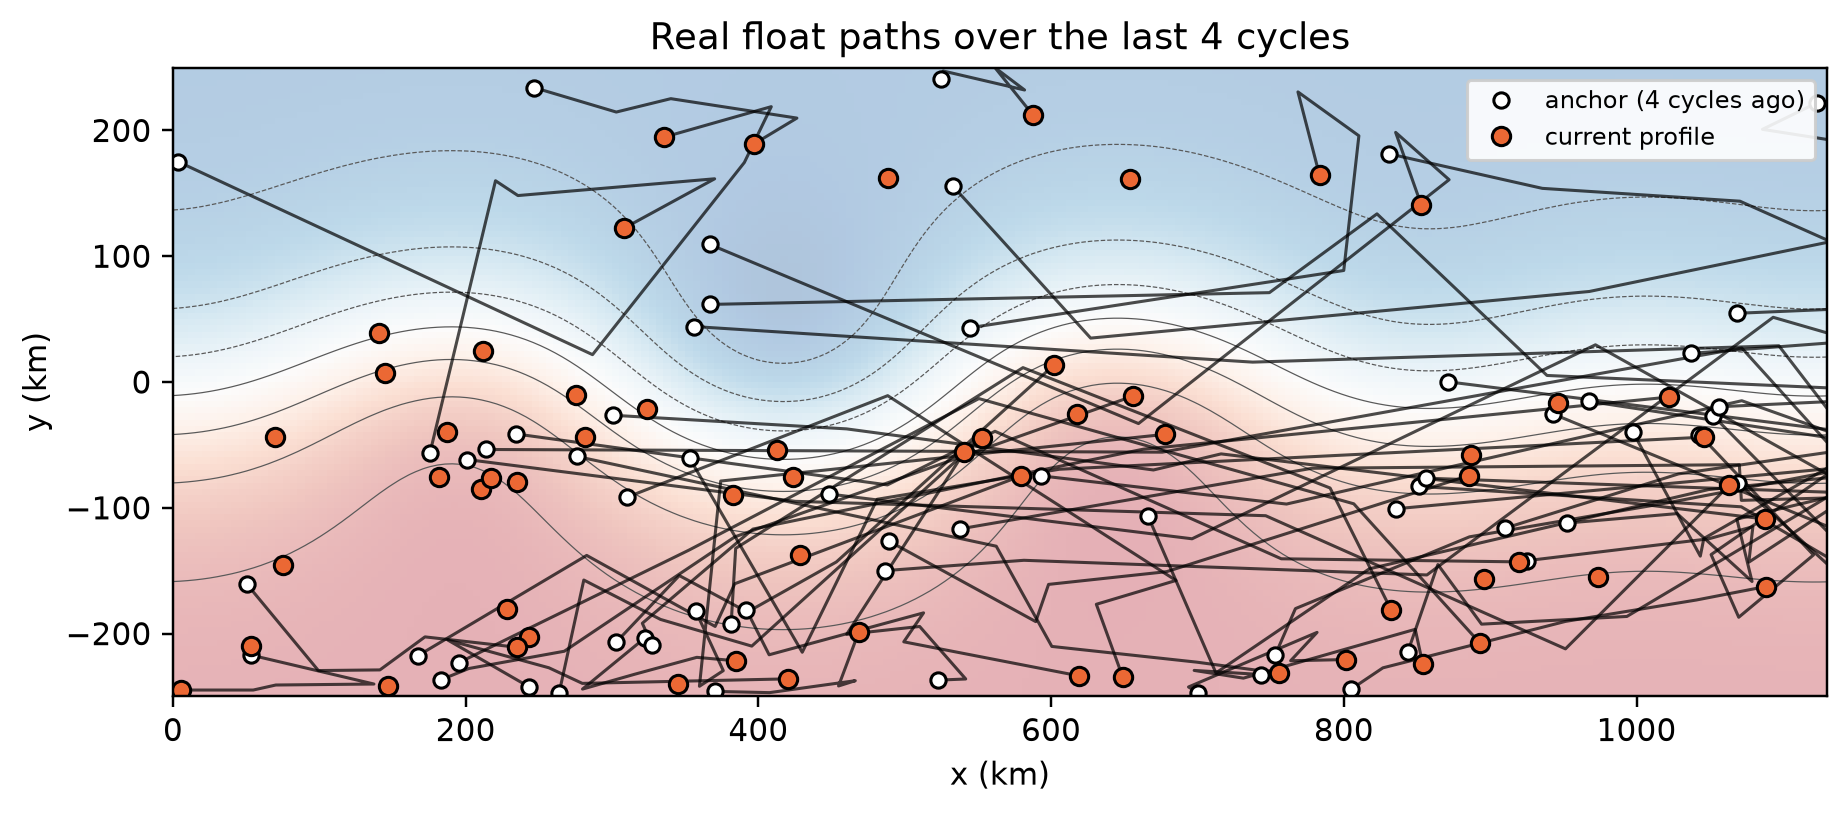
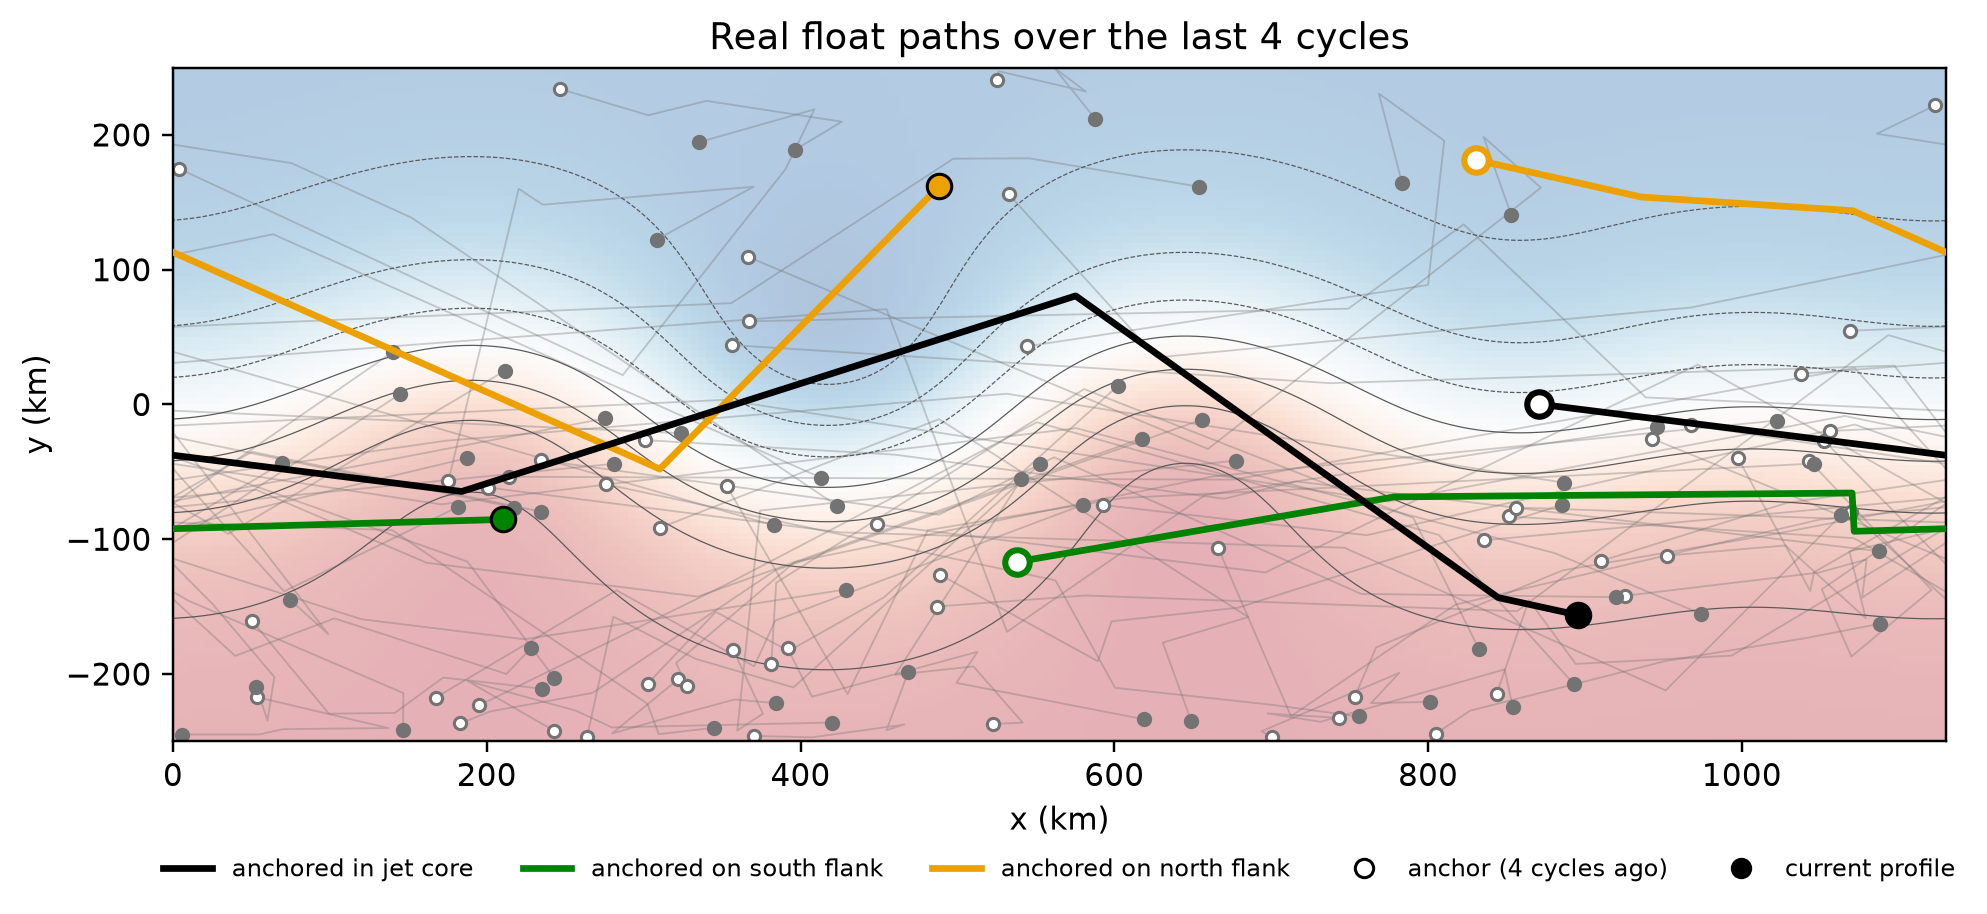
simex: fix wrapped float paths; faint paths with three highlighted floats
Jet floats lap the periodic channel within 4 cycles, so unwrapped paths ran
off the frame and left current profiles without a visible anchor. Paths are
now drawn with every channel-length shift; all paths are faint, with one
float each anchored in the jet core, south flank and north flank highlighted.

Claude-Session: https://claude.ai/code/session_01JX5XCkefp2nRPRboPsFMkC

diff --git a/code/simex.py b/code/simex.py
@@ -586,18 +586,31 @@ def plot_velocity(t=3600.0, figsize=(12, 3.8)):
     return fig
 
 
-def plot_paths(sn, figsize=(8.5, 3.8)):
-    """The real floats' paths over the h cycles from their anchors to the current profiles."""
+def plot_paths(sn, highlight=((0.0, "anchored in jet core"), (-120.0, "anchored on south flank"),
+                                (200.0, "anchored on north flank")), figsize=(9.5, 4.3)):
+    """All real floats' paths over the last h cycles (faint), with a few highlighted by anchor latitude."""
     path = sn["path"]
     px = path[..., 0].copy()
     px[:, 1:] -= LX * np.cumsum(np.round(np.diff(px, axis=1) / LX), axis=1)  # unwrap periodic x
     fig, ax = plt.subplots(figsize=figsize)
     _field(ax, sn["t"], alpha=0.35)
-    ax.plot(px.T, path[..., 1].T, "-", color="k", lw=1, alpha=0.7)
-    ax.plot(px[:, 0], path[:, 0, 1], "o", mfc="w", mec="k", ms=5, label=f"anchor ({sn['h']} cycles ago)")
-    ax.plot(*path[:, -1].T, "o", color=COL["dr"], mec="k", ms=6, label="current profile")
+    pick = [np.argmin(np.abs(path[:, 0, 1] - y)) for y, _ in highlight]
+    for j in range(len(path)):
+        hi = j in pick
+        col = ANCHOR_COL[pick.index(j)] if hi else "0.45"
+        for k in range(-3, 4):  # jet floats can lap the periodic channel, so draw every shifted copy
+            ax.plot(px[j] + k * LX, path[j, :, 1], "-", color=col, lw=2.2 if hi else 0.6,
+                    alpha=1.0 if hi else 0.35, zorder=3 if hi else 1)
+    ax.plot(path[:, 0, 0], path[:, 0, 1], "o", mfc="w", mec="0.45", ms=4, zorder=2)
+    ax.plot(*path[:, -1].T, "o", color="0.45", ms=4, zorder=2)
+    for c, j in zip(ANCHOR_COL, pick):
+        ax.plot(*path[j, 0], "o", mfc="w", mec=c, mew=2, ms=8, zorder=4)
+        ax.plot(*path[j, -1], "o", color=c, mec="k", ms=8, zorder=4)
+    handles = [plt.Line2D([], [], color=c, lw=2.2, label=lab) for c, (_, lab) in zip(ANCHOR_COL, highlight)]
+    handles += [plt.Line2D([], [], ls="", marker="o", mfc="w", mec="k", label=f"anchor ({sn['h']} cycles ago)"),
+                plt.Line2D([], [], ls="", marker="o", color="k", label="current profile")]
+    ax.legend(handles=handles, loc="upper center", bbox_to_anchor=(0.5, -0.14), fontsize=8, frameon=False, ncol=5)
     ax.set(xlim=(0, LX), ylim=(-LY, LY), title=f"Real float paths over the last {sn['h']} cycles")
-    ax.legend(loc="upper right", fontsize=8, framealpha=0.9)
     ax.grid(False)
     fig.tight_layout()
     return fig
